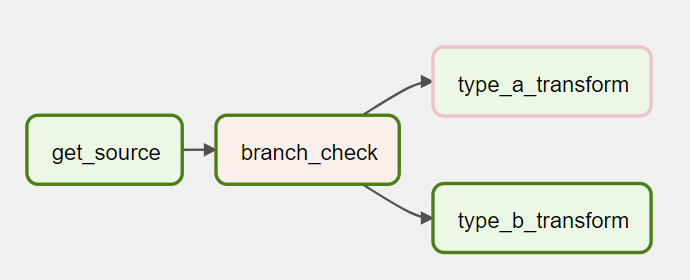
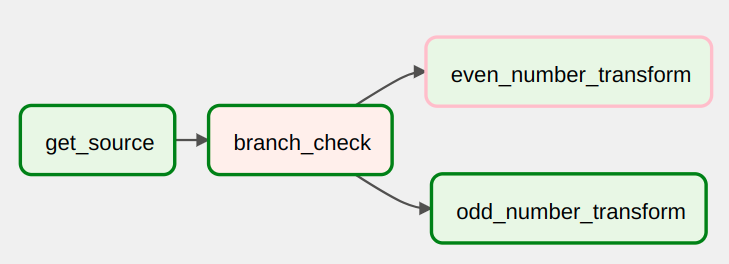
updated branching dag, xcoms dag and Composer GCS bucket purpose

Changed region(s): [[0.0, 0.1212, 1.0, 0.9394]]

diff --git a/code/dags/5_branching_dag.py b/code/dags/5_branching_dag.py
@@ -1,5 +1,5 @@
 from datetime import datetime
-import random
+import time
 
 from airflow.models import DAG
 from airflow.operators.dummy import DummyOperator
@@ -13,12 +13,16 @@ with DAG(
 ) as dag:
     get_source = DummyOperator(task_id="get_source")
 
-    options = ["type_a_transform", "type_b_transform"]
+    def branch_func():
+        if int(time.time()) % 2 == 0:
+            return "even_number_transform"
+        else:
+            return "odd_number_transform"
 
     branch_check = BranchPythonOperator(
-        task_id="branch_check", python_callable=lambda: random.choice(options)
+        task_id="branch_check", python_callable=branch_func
     )
-    type_a = DummyOperator(task_id="type_a_transform")
-    type_b = DummyOperator(task_id="type_b_transform")
+    even_number_transform = DummyOperator(task_id="even_number_transform")
+    odd_number_transform = DummyOperator(task_id="odd_number_transform")
 
-    get_source >> branch_check >> [type_a, type_b]
+    get_source >> branch_check >> [even_number_transform, odd_number_transform]

diff --git a/code/dags/9_generate_nudges_dag.py b/code/dags/9_generate_nudges_dag.py
@@ -27,6 +27,7 @@ inner join `{PROJECT_ID}.analytics.items` i on i.item_id = act.item_id"""
 
 
 def branch_func(ti):
+    # ti means Task Instance here. It is used to retrieve Xcom value
     xcom_return_value = ti.xcom_pull(task_ids="get_latest_run_date", key="return_value")
     log.info(f"Xcom_return_value: {xcom_return_value}")
     if xcom_return_value:

diff --git a/src/build-airflow-pipelines-on-composer/write-the-dags/xcoms_dag.md b/src/build-airflow-pipelines-on-composer/write-the-dags/xcoms_dag.md
@@ -1,8 +1,14 @@
 # Xcoms DAG
 
-Sharing data between tasks is a common use case in Airflow. For example, a task calls an API to get the data file names for today's data ingestion DAG. The following tasks need to know these file names to load the data.
+Sharing data between Tasks is a common use case in Airflow. For example, a Task calls an API to get the data file names for today's data ingestion DAG. The following Tasks need to know these file names to load the data.
 
-XCom (short for cross-communication) is a native feature within Airflow. XComs allow tasks to exchange task metadata or small amounts of data. XComs can be "pushed" (sent) or "pulled" (received). When a task pushes an XCom, it makes it generally available to other tasks.
+XCom (short for cross-communication) is a native feature within Airflow. XComs allow tasks to exchange Task metadata or small amounts of data. XComs can be "pushed" (sent) or "pulled" (retrieved). When a task pushes an XCom, it makes it generally available to other tasks.
+
+There are two ways to push a value to XCom.
+1. Use `xcom_pull` 
+2. Return the value in your function, and it will be pushed to Xcom automatically. 
+
+When a Task (An instance of an Operator) is running, it will get a copy of the Task Instance passed to it. When `python_callable` is used inside a `PythonOperator` Task, you can get the task instance object via `ti = kwargs['ti']`. After that, we can call the `xcom_pull` function to retrieve the Xcom value.
 
 Let's create a DAG to exchange value between tasks.
 
@@ -17,7 +23,7 @@ From Airflow UI, there is a tab next to `Log` called XCom that shows XCom values
 
 ![xcoms push](airflow-xcoms-push.png)
 
-Let's check the `pull_task`. Yes, the value was received!
+Let's check the `pull_task`. Yes, the value was retrieved!
 
 ![xcoms pull](airflow-xcoms-pull.png)
 

diff --git a/src/google-cloud-composer/architecture.md b/src/google-cloud-composer/architecture.md
@@ -19,8 +19,10 @@ A Cloud Composer environment contains multiple components, below are some of the
 - Airflow database hosted on CloudSQL
   - It stores all the information of Airflow, including DAGs, task information, configs, etc
 - Airflow buckets
-  - It contains all the custom code, including DAGs, plugins, and other resources
-  - Behind the scene, Composer uses [gcsfuse](https://github.com/GoogleCloudPlatform/gcsfuse) to sync all the content to Airflow workers and webserver
+  - When you create an environment, Cloud Composer creates a Cloud Storage bucket and associates the bucket with your Composer environment.
+  - You can store custom code in the Cloud Storage bucket, including DAGs, plugins, and other resources.
+  - Behind the scene, Composer uses [gcsfuse](https://github.com/GoogleCloudPlatform/gcsfuse) to sync all the content to Airflow workers and webserver.
+  - You can find a Google [document](https://cloud.google.com/composer/docs/concepts/cloud-storage#folders_in_the_bucket) that shows the mapping list between the folders in the bucket to Airflow folders.
 - Redis queue
   - It holds a queue of individual tasks from your DAGs. Airflow schedulers fill the queue; Airflow workers take their tasks from it
 
